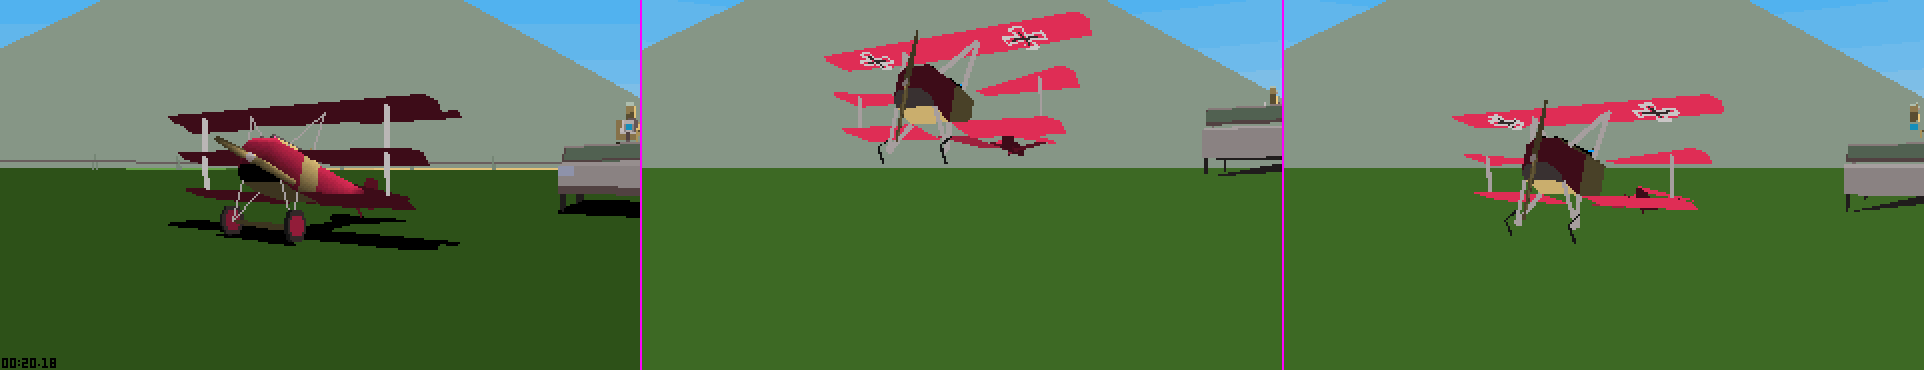
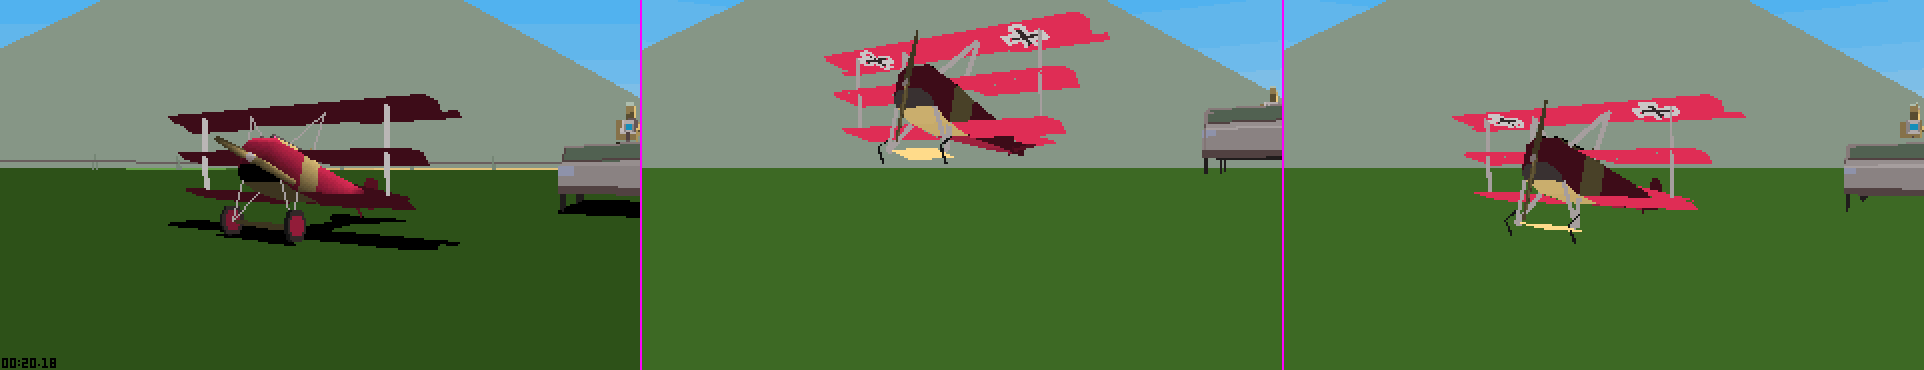
docs(parity): comparison frames for the actor ground offset on current main
The INTRO frame was rendered before #138's mesh-index fix; re-rendered
on f999caf, and two CTRY frames added so the PR shows both films.
Committed under NOTICE.md's comparison-image rule.

mise run check passes.

diff --git a/research/parity/framing-and-actors.md b/research/parity/framing-and-actors.md
@@ -9,7 +9,7 @@
 * **Body: BSP subtrees past the first `RETURN`** (2026-11-01, `[Bounded Observation]`). `run_vm` reads `SORTON` (`0x018C`) as a three-word skip and ends the shape at its first `RETURN`, so only the first subtree of a `SORTON` tree is drawn. In `0x7F37` that first list (`0x0E28`..`0x11F0`) is all 36 polygons, colours 136, 47 and 0 only; the remaining 7.6 KB (`0x11F2`..`0x1DB4`) holds 60 more polygons in `RETURN`-terminated subtrees, the only `FILLCOL 63` (white) words, and from `0x15FC` a centre-stack section (`PUSHCENTRE`). `INTRO.FLM`'s triplane `0x7F04` (slot 0 at tick 1009), vehicle `0x4150` and figure `0x3A26` are cut the same way (`returned_at` 4854 of 12,566, 3328 of 5012, 2298 of 3408 bytes) and report no stop, so they look complete. The flat black shape INTRO draws in the triplane's place is that truncated prefix: it carries no `OP_COLOR`, so every polygon is index 0. Following FreeFlight `siobj.cpp` `case 0x18c` (words are byte offsets from the opcode: inline subtree, then `op + 4 + w2`, then continue at `op + 2 + w1`) raises the triangle counts to 130, 351 and 120 at tick 1009, but most of the added faces are still black (98 of 130 for `0x7F04`) because the `SHADE16`/`GVPOLY16` colour rule is not decoded, and `0x7F37` still stops at `PUSHCENTRE`. Round 1 alone is in Ruled out.
 * **Adopted: the full `SORTON` walk, the centre stack and `SHADE` colour** (2026-11-01, [log row](log.md)). On top of the walk, the centre stack, `GOSUB`/`GOTO`, the relative-matrix stack, `ROTX`/`ROTY`/`ROTZ` and `BVGT` as FreeFlight reads them decode `0x7F37` to the end (76 -> 140 polygons; its `0x15FC` section is the tail, gear and nose) and three `INTRO.FLM` aircraft that stopped on `BVGT` or `PUSHCENTRE` (`0x7F09`, `0x7F19`, `0x7F1A`); the `SHADE` rule ([`sod-vm.md` § 8.5](../playone-exe/sod-vm.md#85-polygon-colour-at-shade-time)) turns the triplane's black faces red. Scores 0.7790 / 0.5376 (from 0.7808 / 0.5488), actor overlap 0.122 / 0.099 (from 0.091 / 0.062); verdict CTRY 45 closer / 75 further, all in the actors layer, INTRO 20 / 167, 164 in actors and three props-only frames (876, 888, 2125: `0x7F04`, `0x3A26`, `0x4150` 685 to 1280 m away, 2 to 7 px; at 876 the added pixels cover hill in the capture). That fails the plan's score gate; it was adopted on the user's call that a drawn but miscoloured body beats a missing one, and on the readout: `INTRO` `aircraft-absent` 9 -> 0 of 12 (now parts missing 11, shape broken 9), `CTRY` `aircraft-shape-broken` 10 -> 3. What remains: the fuselage panels are drawn but painted 136 or 23 where the capture uses the grey ramp 48..63 (the open `GVPOLY16` colour path), and the `SHADE` light vector is a guess.
 * **Orientation: actors were drawn upside down** (2026-11-01, `[Bounded Observation]`). Each actor's DOS rotation was converted like the view's, $q_{z180} \cdot q$, but shapes decode already in `[I1]` (+Y up), so every actor drew rolled 180 degrees about Z: upside down and mirrored. Converting actors by the conjugate $q_{z180} \cdot q \cdot q_{z180}^{-1}$ ([`coordinates-and-units.md` § 1.2](../formats/concepts/coordinates-and-units.md#12-right-handed-metric-basis-i1)) stands the `INTRO.FLM` triplane upright with its three wings and gear and gives the `CTRY.FLM` biplane its white fuselage and upper wing: 0.7790 / 0.5376 -> 0.7855 / 0.5208, actor overlap 0.122 / 0.099 -> 0.212 / 0.093; verdict CTRY 73 closer / 5 further, INTRO 39 / 160 (157 in the actors layer). INTRO falls because the now upright, full-size aircraft show the colour the `SHADE` rule still gets wrong (the triplane's fuselage grey where the capture is red) over more pixels, and its camera still sits lower than the capture's at tick 1185. The earlier orientation sweeps (Ruled out) found Y-flip variants best for the same reason, but on the truncated shape they could not show it. Before the fix, `INTRO.FLM` tick 1009 (capture above, ours below): [`aircraft/intro-1009-upside-down.png`](aircraft/intro-1009-upside-down.png).
-* **Adopted: actors drawn without the shape's ground offset** (2026-11-02, `[Bounded Observation]`, heuristic, [log row](log.md), [#67](https://github.com/neilsh/stunt-reel/issues/67)). Re-measured after the orientation fix, the `shift` probe put the hero 8 rows *high* (median dy +8, mostly +8 to +10, dx median -2, 74 frames of at least 300 actor pixels): the pre-orientation -10 had flipped sign with the actor. That is the header's `ground_y_offset` (2624 at scale index 13, 0.32 m, about 10 rows at the hero's usual 80 px wingspan): the decoder adds it to every vertex in model +Y, which stands a world prop on the ground it is placed at, but a film actor's position is its model origin. While actors drew rolled 180 degrees the same lift pushed them 10 rows low. Sweeps, CTRY / INTRO `mean_ssim_scored` (actor overlap): the lift on every shape scaled by k, k = 1 0.7843 / 0.6902 (0.227 / 0.093), k = 0 0.7781 / 0.7287 (0.353 / 0.248), k = -1 0.7706 / 0.7143; actors only, the lift taken back out along the actor's own +Y by a fraction d, d = -0.5 0.7859 / 0.7073 (0.337 / 0.137), **d = -1 0.7871 / 0.7264 (0.353 / 0.248)**, d = -1.5 0.7826 / 0.7141, d = -2 0.7752 / 0.7108. Both films and both overlaps peak at exactly one offset removed, and only for actors: removing it from props as well costs CTRY 0.009 (trees and buildings sink into the ground). `actor_world_matrix` in [`scene.rs`](../../crates/stunt-core/src/scene.rs) now does this. Verdict CTRY 53 closer / 28 further (worst tick 829, the crash close-up, where the struck column moves a few rows), INTRO 184 / 19. Residual `shift` after the fix: dy median -2 (mostly -2 and 0), dx median +2, against the world's own optimum of about -4 rows (Ruled out, single framing offset): the hero's placement residual is gone to within the world's. Rescored on top of the square-pixel 256 px projection ([log row](log.md), section 2): fractions 0 / 0.5 / 1 / 1.5 give 0.8291 / 0.8313 / **0.8322** / 0.8286 on CTRY and 0.7154 / 0.7372 / **0.7693** / 0.7432 on INTRO, so the projection change leaves the optimum at one offset and the `shift` residual at dy -2, dx +2. `INTRO.FLM` tick 1009, capture, then ours with the offset, then ours without it (the triplane's wheels come down to the ground): [`aircraft/intro-1009-ground-offset.png`](aircraft/intro-1009-ground-offset.png). Rescored again after the absolute mesh-index fix ([log row](log.md)): 0 / 0.5 / 1 / 1.5 give 0.8285 / **0.8309** / 0.8298 / 0.8254 on CTRY and 0.7081 / 0.7317 / **0.7745** / 0.7407 on INTRO. INTRO still peaks at one offset, but the CTRY gain at one offset is +0.0013, under the noise floor, and CTRY prefers half; the `shift` residual is dy -4, dx +2, the world's own. Kept at one offset on the user's call (2026-11-03): INTRO's gain is large and the CTRY change sits inside the noise floor rather than against it. What the capture still shows differently at tick 587 is attitude and shape (the capture's biplane is rolled with both striped wings visible; ours is flatter with one wing), not position. Not yet read out of `PLAYONE.EXE`: where it consumes header word `+4`, and whether it applies it only to ground-placed objects ([`memory-map.md`](../playone-exe/memory-map.md) `DS:0x4778`/`DS:0x48B6` per-slot records are the place to start).
+* **Adopted: actors drawn without the shape's ground offset** (2026-11-02, `[Bounded Observation]`, heuristic, [log row](log.md), [#67](https://github.com/neilsh/stunt-reel/issues/67)). Re-measured after the orientation fix, the `shift` probe put the hero 8 rows *high* (median dy +8, mostly +8 to +10, dx median -2, 74 frames of at least 300 actor pixels): the pre-orientation -10 had flipped sign with the actor. That is the header's `ground_y_offset` (2624 at scale index 13, 0.32 m, about 10 rows at the hero's usual 80 px wingspan): the decoder adds it to every vertex in model +Y, which stands a world prop on the ground it is placed at, but a film actor's position is its model origin. While actors drew rolled 180 degrees the same lift pushed them 10 rows low. Sweeps, CTRY / INTRO `mean_ssim_scored` (actor overlap): the lift on every shape scaled by k, k = 1 0.7843 / 0.6902 (0.227 / 0.093), k = 0 0.7781 / 0.7287 (0.353 / 0.248), k = -1 0.7706 / 0.7143; actors only, the lift taken back out along the actor's own +Y by a fraction d, d = -0.5 0.7859 / 0.7073 (0.337 / 0.137), **d = -1 0.7871 / 0.7264 (0.353 / 0.248)**, d = -1.5 0.7826 / 0.7141, d = -2 0.7752 / 0.7108. Both films and both overlaps peak at exactly one offset removed, and only for actors: removing it from props as well costs CTRY 0.009 (trees and buildings sink into the ground). `actor_world_matrix` in [`scene.rs`](../../crates/stunt-core/src/scene.rs) now does this. Verdict CTRY 53 closer / 28 further (worst tick 829, the crash close-up, where the struck column moves a few rows), INTRO 184 / 19. Residual `shift` after the fix: dy median -2 (mostly -2 and 0), dx median +2, against the world's own optimum of about -4 rows (Ruled out, single framing offset): the hero's placement residual is gone to within the world's. Rescored on top of the square-pixel 256 px projection ([log row](log.md), section 2): fractions 0 / 0.5 / 1 / 1.5 give 0.8291 / 0.8313 / **0.8322** / 0.8286 on CTRY and 0.7154 / 0.7372 / **0.7693** / 0.7432 on INTRO, so the projection change leaves the optimum at one offset and the `shift` residual at dy -2, dx +2. `INTRO.FLM` tick 1009, capture, then ours with the offset, then ours without it (the triplane's wheels come down to the ground): [`aircraft/intro-1009-ground-offset.png`](aircraft/intro-1009-ground-offset.png); the same layout for `CTRY.FLM` ticks 587 and 785, where the biplane moves down toward the capture's position: [`aircraft/ctry-587-ground-offset.png`](aircraft/ctry-587-ground-offset.png), [`aircraft/ctry-785-ground-offset.png`](aircraft/ctry-785-ground-offset.png). All three are rendered on `f999caf`. Rescored again after the absolute mesh-index fix ([log row](log.md)): 0 / 0.5 / 1 / 1.5 give 0.8285 / **0.8309** / 0.8298 / 0.8254 on CTRY and 0.7081 / 0.7317 / **0.7745** / 0.7407 on INTRO. INTRO still peaks at one offset, but the CTRY gain at one offset is +0.0013, under the noise floor, and CTRY prefers half; the `shift` residual is dy -4, dx +2, the world's own. Kept at one offset on the user's call (2026-11-03): INTRO's gain is large and the CTRY change sits inside the noise floor rather than against it. What the capture still shows differently at tick 587 is attitude and shape (the capture's biplane is rolled with both striped wings visible; ours is flatter with one wing), not position. Not yet read out of `PLAYONE.EXE`: where it consumes header word `+4`, and whether it applies it only to ground-placed objects ([`memory-map.md`](../playone-exe/memory-map.md) `DS:0x4778`/`DS:0x48B6` per-slot records are the place to start).
 * **Every mesh after a shape's first drew the wrong vertices** (2026-11-03, `[Bounded Observation]`). `stunt-core` stores a mesh node's indices absolute, into the shape's whole vertex buffer (`tessellate.rs`, `ShapeMesh::indices`), but [`plan_upload`](../../crates/stunt-render/src/mesh.rs) passed each node's `vertex_offset` as the `draw_indexed` base vertex, so every node after the first read vertices `vertex_offset` too far on. A multi-node shape such as `0x7F37` (base mesh plus three decals) lost those nodes to spikes and fragments: at `INTRO.FLM` tick 1141 the old render shows the biplane's fuselage missing and stray triangles, the fixed one draws the whole aircraft. Drawing from base vertex 0 scores 0.8285 / 0.7081 (from 0.8291 / 0.7154; IoU 0.9897 / 0.9692 from 0.9897 / 0.9712). Both tracks of the adoption rule reject that, but this is a contract fix, not a parity candidate: the old draw read vertices no shape names. INTRO falls because the now-whole aircraft paints more pixels at the position and colour errors above (worst movers 1130 to 1152 and 2422 to 2676, -0.02 to -0.03 each; 177 of 346 frames move).
 * **Ground shadow.** The capture draws a black monoplane-shaped silhouette on the ground below the aircraft (the aircraft is a biplane; only one actor draw exists at tick 448). 65,982 black pixels over the 114 scored frames (up to 1,588 in one, present in 83), offset from the actor centroid by median dx -29, dy +41 px. Nothing in our renderer draws it; its source (flattened projection, an `OP_ANIMATE` image resource, other) is `[Unknown]`. A flattened copy does not reproduce it (see Ruled out).
 * The rotation composition is plausible: at tick 426 the capture shows the biplane from the side with wings edge-on and our unrotated render has the same layout (wing span, tail, strut side).
